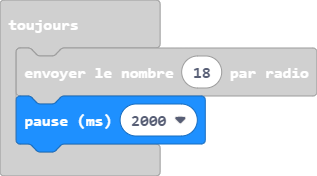
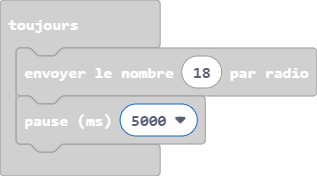
Mise à jour main.blocks, main.ts

Changed region(s): [[0.0284, 0.5398, 0.653, 0.8807]]

diff --git a/main.ts b/main.ts
@@ -1,5 +1,5 @@
 radio.setGroup(105)
 basic.forever(function () {
     radio.sendNumber(18)
-    basic.pause(2000)
+    basic.pause(5000)
 })
